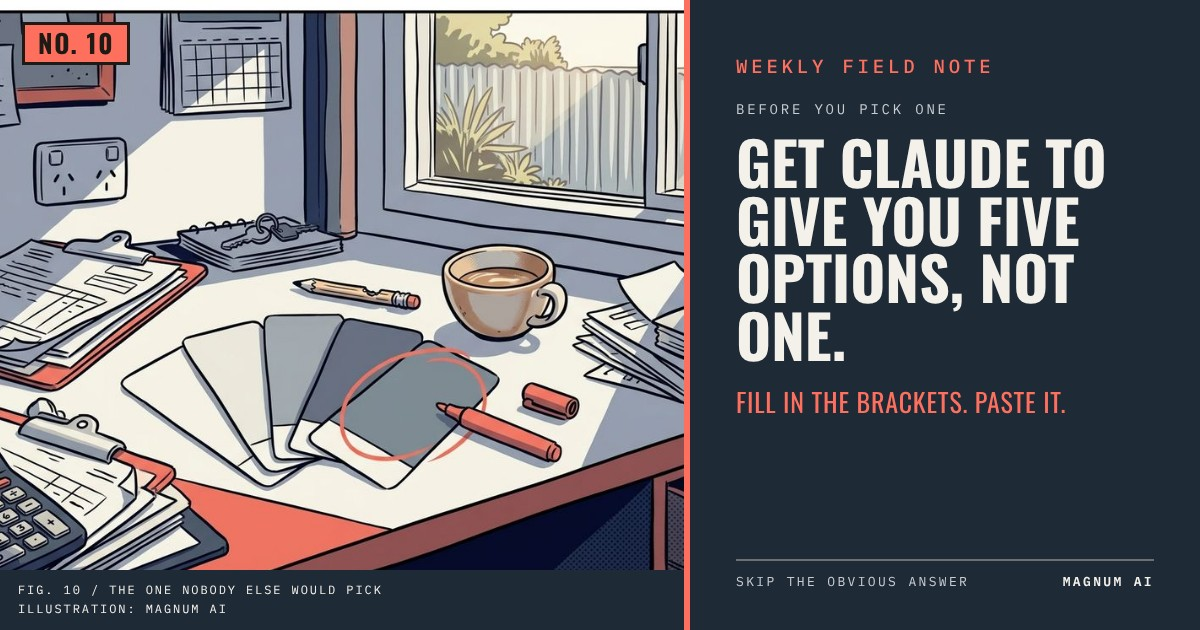
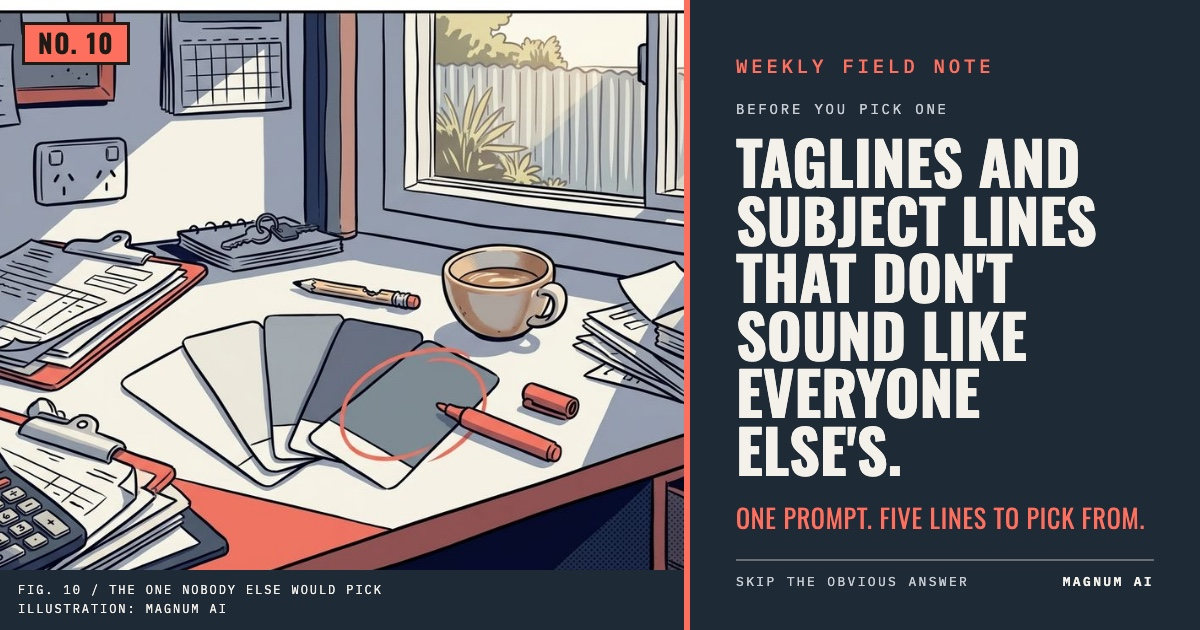
Field Note 10: headline names the job, not the trick; tighten the headline rule

diff --git a/newsletter/field-note-10-options.html b/newsletter/field-note-10-options.html
@@ -8,24 +8,24 @@
 <link rel="apple-touch-icon" href="../assets/logos/apple-touch-icon.png">
 
 <title>Weekly Field Note No. 10 · Options · Magnum AI</title>
-<meta name="description" content="A prompt that gets Claude to give you five options for a name, tagline or headline, ranked from the safe one to the boldest.">
+<meta name="description" content="A copy-and-paste prompt for names, taglines and subject lines that don't sound like every other business using AI.">
 <meta name="author" content="Magnum AI">
 <link rel="canonical" href="https://webes77.github.io/magnum-guides/newsletter/field-note-10-options.html">
 
 <!-- Social preview · what clients see when this link is shared -->
 <meta property="og:type" content="article">
 <meta property="og:site_name" content="Magnum AI · Weekly Field Note">
-<meta property="og:title" content="Weekly Field Note No. 10 · Get Claude to give you five options, not one">
-<meta property="og:description" content="A prompt that gets Claude to give you five options, instead of just the first one it thinks of.">
+<meta property="og:title" content="Weekly Field Note No. 10 · Taglines and subject lines that don't sound like everyone else's">
+<meta property="og:description" content="A copy-and-paste prompt for names, taglines and subject lines that don't sound like every other business using AI.">
 <meta property="og:url" content="https://webes77.github.io/magnum-guides/newsletter/field-note-10-options.html">
-<meta property="og:image" content="https://webes77.github.io/magnum-guides/assets/thumbnails/field-note-10-options.jpg?v=2">
+<meta property="og:image" content="https://webes77.github.io/magnum-guides/assets/thumbnails/field-note-10-options.jpg?v=3">
 <meta property="og:image:width" content="1200">
 <meta property="og:image:height" content="630">
-<meta property="og:image:alt" content="Weekly Field Note No. 10 · Get Claude to give you five options, not one, published by Magnum AI">
+<meta property="og:image:alt" content="Weekly Field Note No. 10 · Taglines and subject lines that don't sound like everyone else's, published by Magnum AI">
 <meta name="twitter:card" content="summary_large_image">
-<meta name="twitter:title" content="Weekly Field Note No. 10 · Get Claude to give you five options, not one">
-<meta name="twitter:description" content="A prompt that gets Claude to give you five options, instead of just the first one it thinks of.">
-<meta name="twitter:image" content="https://webes77.github.io/magnum-guides/assets/thumbnails/field-note-10-options.jpg?v=2">
+<meta name="twitter:title" content="Weekly Field Note No. 10 · Taglines and subject lines that don't sound like everyone else's">
+<meta name="twitter:description" content="A copy-and-paste prompt for names, taglines and subject lines that don't sound like every other business using AI.">
+<meta name="twitter:image" content="https://webes77.github.io/magnum-guides/assets/thumbnails/field-note-10-options.jpg?v=3">
 <meta name="theme-color" content="#1F2A37">
 <meta name="color-scheme" content="light">
 <link rel="preconnect" href="https://fonts.googleapis.com">
@@ -115,16 +115,16 @@ body{background:#1F2A37;font-family:var(--sans);color:var(--body);
 </nav>
 
 <main class="note">
-  <h1>Get Claude to give you <em>five options, not one</em></h1>
+  <h1>Taglines and subject lines that <em>don't sound like everyone else's</em></h1>
 
   <dl class="three">
     <div>
       <dt>What it is</dt>
-      <dd>A prompt that gets Claude to give you five options instead of the first one it thinks of.</dd>
+      <dd>A copy-and-paste prompt for a business name, tagline, headline or email subject line.</dd>
     </div>
     <div>
       <dt>What you get</dt>
-      <dd>Five options, ranked from the safe and obvious one to the ones nobody else will land on.</dd>
+      <dd>AI gives everyone the same first answer, competitors included. This gives you five, two of them lines nobody else will have.</dd>
     </div>
     <div>
       <dt>What you do</dt>

diff --git a/index.html b/index.html
@@ -257,12 +257,12 @@ footer b{color:var(--paper);font-weight:500}
     <div class="grid">
 
       <a class="card thumb" href="newsletter/field-note-10-options.html">
-        <img src="assets/thumbnails/field-note-10-options.jpg" alt="Weekly Field Note No. 10 · Get Claude to give you five options, not one" width="1200" height="630" loading="lazy">
+        <img src="assets/thumbnails/field-note-10-options.jpg" alt="Weekly Field Note No. 10 · Taglines and subject lines that don't sound like everyone else's" width="1200" height="630" loading="lazy">
         <div class="inner">
           <div class="date">Field Note No. 10</div>
-          <h3>Get Claude to give you five options, not one</h3>
+          <h3>Taglines and subject lines that don't sound like everyone else's</h3>
           <div class="meta">Weekly Field Note &middot; Options &middot; Two minutes</div>
-          <p>A prompt that gets Claude to give you five options instead of the first one it thinks of.</p>
+          <p>A copy-and-paste prompt for names, taglines and subject lines that don't sound like every other business using AI.</p>
           <span class="go">Read this issue &rarr;</span>
         </div>
       </a>

diff --git a/newsletter/index.html b/newsletter/index.html
@@ -140,12 +140,12 @@ footer b{color:var(--paper);font-weight:500}
     <div class="grid">
 
       <a class="card" href="field-note-10-options.html">
-        <img src="../assets/thumbnails/field-note-10-options.jpg" alt="Weekly Field Note No. 10 · Get Claude to give you five options, not one" width="1200" height="630" loading="lazy">
+        <img src="../assets/thumbnails/field-note-10-options.jpg" alt="Weekly Field Note No. 10 · Taglines and subject lines that don't sound like everyone else's" width="1200" height="630" loading="lazy">
         <div class="inner">
           <div class="date">No. 10</div>
           <h3>Options</h3>
           <div class="meta">Practical AI &middot; Two minutes</div>
-          <p>Get Claude to give you five options, not one. A prompt that gets Claude to give you five options instead of the first one it thinks of.</p>
+          <p>Taglines and subject lines that don't sound like everyone else's. A copy-and-paste prompt for names, taglines and subject lines that don't sound like every other business using AI.</p>
           <span class="go">Read this issue &rarr;</span>
         </div>
       </a>

diff --git a/tools/check-field-note.js b/tools/check-field-note.js
@@ -165,6 +165,13 @@ function check(file) {
     if (!/<section class="why">/.test(html)) fail.push('no Why it works block');
     const h1 = visibleText((html.match(/<h1>[\s\S]*?<\/h1>/) || [''])[0]).trim().split(/\s+/).filter(Boolean);
     if (h1.length > 10) fail.push(`the headline is ${h1.length} words; keep it to 10`);
+    // James, 21 Oct: the headline names the job and what it does for the
+    // reader, never the AI trick. "Get Claude to give you five options" told
+    // nobody what it was for.
+    const h1s = h1.join(' ');
+    if (/^(get|ask|make|tell|have|let)\s+(claude|ai|chatgpt)\b/i.test(h1s) || /\bprompt\b/i.test(h1s)) {
+      fail.push(`the headline "${h1s}" describes the AI technique; name the job and what it does for the reader`);
+    }
     const card = (html.match(/<main class="note">[\s\S]*?<\/main>/) || [''])[0]
       .replace(/<pre>[\s\S]*?<\/pre>/g, ' ');
     const words = visibleText(card).trim().split(/\s+/).filter(Boolean).length;

diff --git a/newsletter/field-note-10-thumbnail.html b/newsletter/field-note-10-thumbnail.html
@@ -64,8 +64,8 @@ h1{font-family:'Oswald','Arial Narrow','Liberation Sans Narrow',sans-serif;font-
   <div class="panel">
     <div class="k">Weekly Field Note</div>
     <div class="eyebrow">Before you pick one</div>
-    <h1>Get Claude to give you five options, not one.</h1>
-    <div class="kicker">Fill in the brackets. Paste it.</div>
+    <h1>Taglines and subject lines that don't sound like everyone else's.</h1>
+    <div class="kicker">One prompt. Five lines to pick from.</div>
     <div class="foot">
       <span>Skip the obvious answer</span>
       <b>Magnum AI</b>

diff --git a/notes/field-note-prompt.md b/notes/field-note-prompt.md
@@ -128,9 +128,9 @@ One card. James set this on 30 Sep, after issue 07 went out at six phone screens
 
 A reader decides in seconds whether to keep going, and decides on three questions: What is it? What do I get? What do I do? The card answers those three, in that order, in plain words, before anything else. In James's words: how does this solve a problem for me, is it simple, is it valuable. If any of the three is unclear, the reader is gone.
 
-1. The headline says what to do and when, in the words a client would use. "Check your bill with Claude before you renew" is right. "Your AI just gave you the textbook answer" is wrong: it is a riddle, it sounds like an advertisement, and it does not say what the issue is for. Ten words at most. One coral phrase.
-2. What it is: one sentence starting "A prompt that", naming the job.
-3. What you get: one sentence, the result in the reader's hands.
+1. The headline names the everyday job and what it does for the reader, in the words a client would use. Test it as the only line someone sees in a WhatsApp preview: could a busy owner say what it is for and why they would care? If not, rewrite it. Never describe the AI technique: no "Get Claude to", "Ask AI to", "a prompt that" or "five options", because the method is not the hook. "Check your bill with Claude before you renew" is right. "Taglines and subject lines that don't sound like everyone else's" is right. "Get Claude to give you five options, not one" is wrong (James, 21 Oct): it names the trick and not the job, so the reader cannot tell what it is or how it affects them. "Your AI just gave you the textbook answer" is wrong: it is a riddle and sounds like an advertisement. Ten words at most. One coral phrase.
+2. What it is: one sentence naming the job and the moment you would reach for it, for example "A copy-and-paste prompt for a business name, tagline, headline or email subject line." Not a description of what the prompt makes Claude do.
+3. What you get: how it affects the reader. The problem it takes away or what it saves them (time, money, a bad look, a missed job), in one or two short sentences. Not a description of the output.
 4. What you do: exactly three numbered steps, one action each. Step one says where the file or information comes from. Step two is open a new chat and paste the prompt. Step three is what to do with the answer.
 5. The prompt, with its copy button.
 6. Why it works: two to four short sentences built on one everyday comparison.

diff --git a/CLAUDE.md b/CLAUDE.md
@@ -2107,6 +2107,8 @@ shape; only CSS moved. The shelf's two recorded contrast failures (Copy
 
 **Field Note relevance gate, 7 Oct, James's word.** Before a Field Note is built, and before the Sunday Brief commissions one, the idea must pass one test: would a busy small business owner use this prompt this week, on a job they already do? Issue 08 first shipped on pasted-text safety; James said it was too complicated and irrelevant to his clients right now, "exactly the type of field note that would turn people off". If the commission fails the test, ignore it and take the shelf fallback. Prefer everyday jobs: replying, quoting, chasing, writing, deciding. No security, setup or AI-mechanics topics unless a client is actually hitting the problem.
 
+**Field Note headlines name the job, not the trick, 21 Oct, James's word.** Issue 10 shipped as "Get Claude to give you five options, not one". James: "I don't even know what that means", and the notes are vague about what they are; the top must answer what is it and how does it affect me, or "it's just words" and nobody opens them. Rebuilt at the same URL: headline "Taglines and subject lines that don't sound like everyone else's", What it is names the job, What you get says what it does for the reader. `notes/field-note-prompt.md` FORMAT items 1 to 3 carry the rule, and `tools/check-field-note.js --shape` now fails a headline that opens "Get/Ask/Make/Tell Claude/AI to" or says "prompt".
+
 **The Field Note is one card now, 30 Sep, and the live routine carries it.**
 James read issue 07 live and said no client would read it: confusing, too
 dense, a prompt he did not like, and headlines that read like advertising

diff --git a/notes/field-note-log.md b/notes/field-note-log.md
@@ -318,3 +318,5 @@ on the shelf together. `node tools/check-field-note.js --shape --draft` prints
 PASS. Card image rendered clean at 1200x630. Checked in the browser at 1440,
 820 and 390 wide: no console errors beyond blocked Google Fonts, no sideways
 scroll.
+
+21 Oct, issue 10 rewritten on James's word: the headline "Get Claude to give you five options, not one" did not say what it was or how it helped. Now "Taglines and subject lines that don't sound like everyone else's". Card re-rendered, ?v=3. Headline rule tightened in the prompt and the checker.
